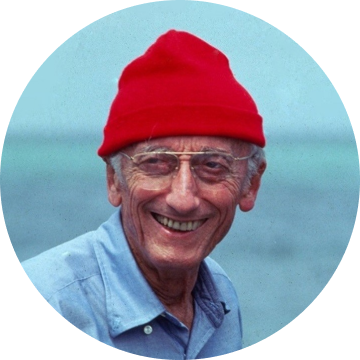
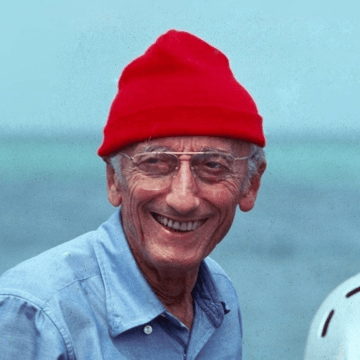
feat: сверстать profile для ширины 1280

diff --git a/index.html b/index.html
@@ -11,13 +11,21 @@
     <div class="page">
 
         <header class="header">
-            <img class="header__logo" src="./images/logo/logo-white.svg">
+            <img class="header__logo" src="./images/logo/logo-white.svg" alt="логотип заголовка">
         </header>
 
         <main class="content">
 
             <section class="profile">
-
+                <div class="profile-info">
+                    <img class="profile-info__avatar" src="./images/avatar.png" alt="аватар профиля">
+                    <div class="profile-text">
+                        <p class="profile-text__name">Жак-Ив Кусто</p>
+                        <button class="profile-text__edit" type="button"></button>
+                        <p class="profile-text__description">Исследователь океана</p>
+                    </div>
+                </div>
+                <button class="profile__add-button"></button>
             </section>
 
             <section class="elements">

diff --git a/pages/index.css b/pages/index.css
@@ -4,6 +4,8 @@
 @import url(../blocks/content/content.css);
 @import url(../blocks/header/header.css);
 @import url(../blocks/profile/profile.css);
+@import url(../blocks/profile-info/profile-info.css);
+@import url(../blocks/profile-text/profile-text.css);
 @import url(../blocks/elements/elements.css);
 @import url(../blocks/element/element.css);
 @import url(../blocks/footer/footer.css);

diff --git a/blocks/profile-text/profile-text.css b/blocks/profile-text/profile-text.css
@@ -1,0 +1,12 @@
+@import url(./__name/profile-text__name.css);
+@import url(./__edit/profile-text__edit.css);
+@import url(./__description/profile-text__description.css);
+
+.profile-text {
+    width: 336px;
+    display: grid;
+    grid-template-columns: max-content 24px;
+    grid-template-rows: repeat(2, max-content);
+    grid-column-gap: 17px;
+    grid-row-gap: 16px;
+}

diff --git a/blocks/profile/profile.css b/blocks/profile/profile.css
@@ -1,3 +1,11 @@
-@import url(./__avatar/profile__avatar.css);
-@import url(./__Info/profile__info.css);
 @import url(./__add-button/profile__add-button.css);
+
+.profile {
+    display: flex;
+    flex-direction: row;
+    justify-content: space-between;
+    max-width: 882px;
+    min-height: 120px;
+    margin: 0 auto;
+    padding: 40px 0 50px;
+}

diff --git a/blocks/profile-text/__edit/profile-text__edit.css b/blocks/profile-text/__edit/profile-text__edit.css
@@ -1,0 +1,15 @@
+.profile-text__edit {
+    margin: 0;
+    padding: 0;
+    background-image: url(../../../images/edit-button.svg);
+    width: 24px;
+    height: 24px;
+    background-color: #000000;
+    border: none;
+    cursor: pointer;
+    align-self: end;
+}
+
+.profile-text__edit:hover {
+    opacity: .6;
+}

diff --git a/blocks/profile/__add-button/profile__add-button.css b/blocks/profile/__add-button/profile__add-button.css
@@ -1,0 +1,14 @@
+.profile__add-button {
+    margin: auto 0;
+    padding: 0;
+    background-image: url(../../../images/add-button.svg);
+    width: 150px;
+    height: 50px;
+    background-color: #000000;
+    border: none;
+    cursor: pointer;
+}
+
+.profile__add-button:hover {
+    opacity: .6;
+}

diff --git a/blocks/profile-info/__avatar/profile-info__avatar.css b/blocks/profile-info/__avatar/profile-info__avatar.css
@@ -1,0 +1,10 @@
+.profile-info__avatar {
+    width: 120px;
+    height: 120px;
+    box-sizing: border-box;
+    overflow: hidden;
+    object-fit: contain;
+    object-position: top;
+    border-radius: 50%;
+    margin-right: 50px;
+}

diff --git a/blocks/profile-info/profile-info.css b/blocks/profile-info/profile-info.css
@@ -1,0 +1,7 @@
+@import url(./__avatar/profile-info__avatar.css);
+
+.profile-info {
+    display: flex;
+    flex-direction: row;
+    align-items: center;
+}

diff --git a/blocks/profile-text/__description/profile-text__description.css b/blocks/profile-text/__description/profile-text__description.css
@@ -1,0 +1,7 @@
+.profile-text__description {
+    font-size: 18px;
+    line-height: 22px;
+    font-weight: normal;
+    margin: 0;
+    height: 18px;
+}

diff --git a/blocks/profile-text/__name/profile-text__name.css b/blocks/profile-text/__name/profile-text__name.css
@@ -1,0 +1,7 @@
+.profile-text__name {
+    font-size: 42px;
+    line-height: 56px;
+    font-weight: 500;
+    margin: 0;
+    height: 43px;
+}
